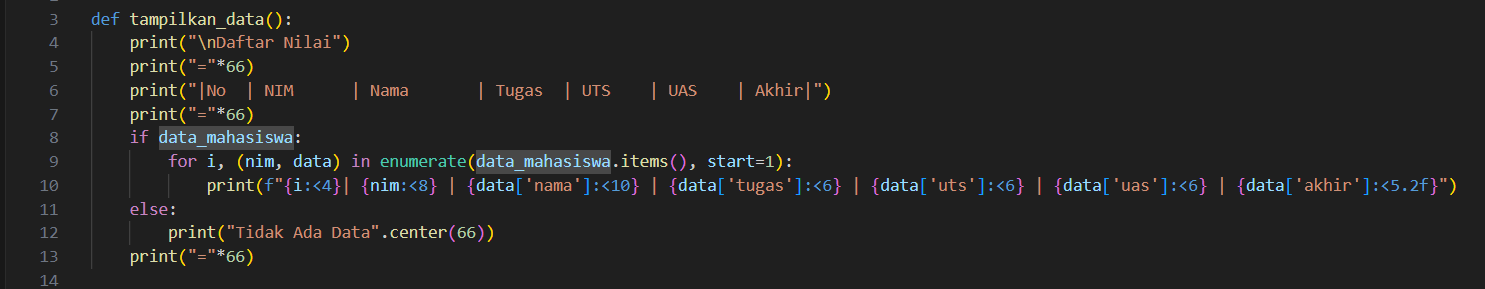
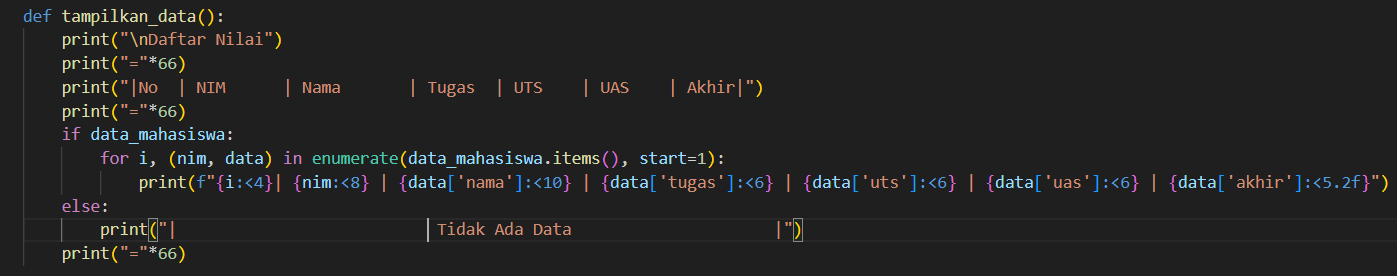
menambahkan file

diff --git a/pratikum5.py b/pratikum5.py
@@ -9,7 +9,7 @@ def tampilkan_data():
         for i, (nim, data) in enumerate(data_mahasiswa.items(), start=1):
             print(f"{i:<4}| {nim:<8} | {data['nama']:<10} | {data['tugas']:<6} | {data['uts']:<6} | {data['uas']:<6} | {data['akhir']:<5.2f}")
     else:
-        print("Tidak Ada Data".center(66))
+        print("|                           Tidak Ada Data                     |")
     print("="*66)
 
 def tambah_data():

diff --git a/README.md b/README.md
@@ -9,7 +9,7 @@
 
 ### Fungsi tampilkan_data()
 - Fungsi digunakan untuk menampikan data mahasiswa dalam bentuk tabel. 
-- Heade tabel menggunakan format string agar data tersusun rapi. 
+- HeadeR tabel menggunakan format string agar data tersusun rapi. 
 - Jika data_mahasiswa kosong, maka akan terdapat pesan "Tidak ada data". 
 - Menggunakan enumerate() untuk memberikan nomor urut pada data. 
 
@@ -85,10 +85,13 @@ Berikut merupakan hasil dari kode program apabila tidak ada data yang diinputkan
 
 Berikut merupakan hasil dari kode program apabila terdapat data yang diinputkan. 
 
-![Gambar 11](SSS/ss11.png)
+![Gambar 11](SS/ss11.png)
 
 
 ### FLOWCHART 
+
+![Gambar 12](SS/ss12.png)
+
 ## MULAI PROGRAM
 - Program dimulai dengan menginisialisasi dictionary kosong data_mahasiswa untuk menyimpan data mahasiswa. 
 
